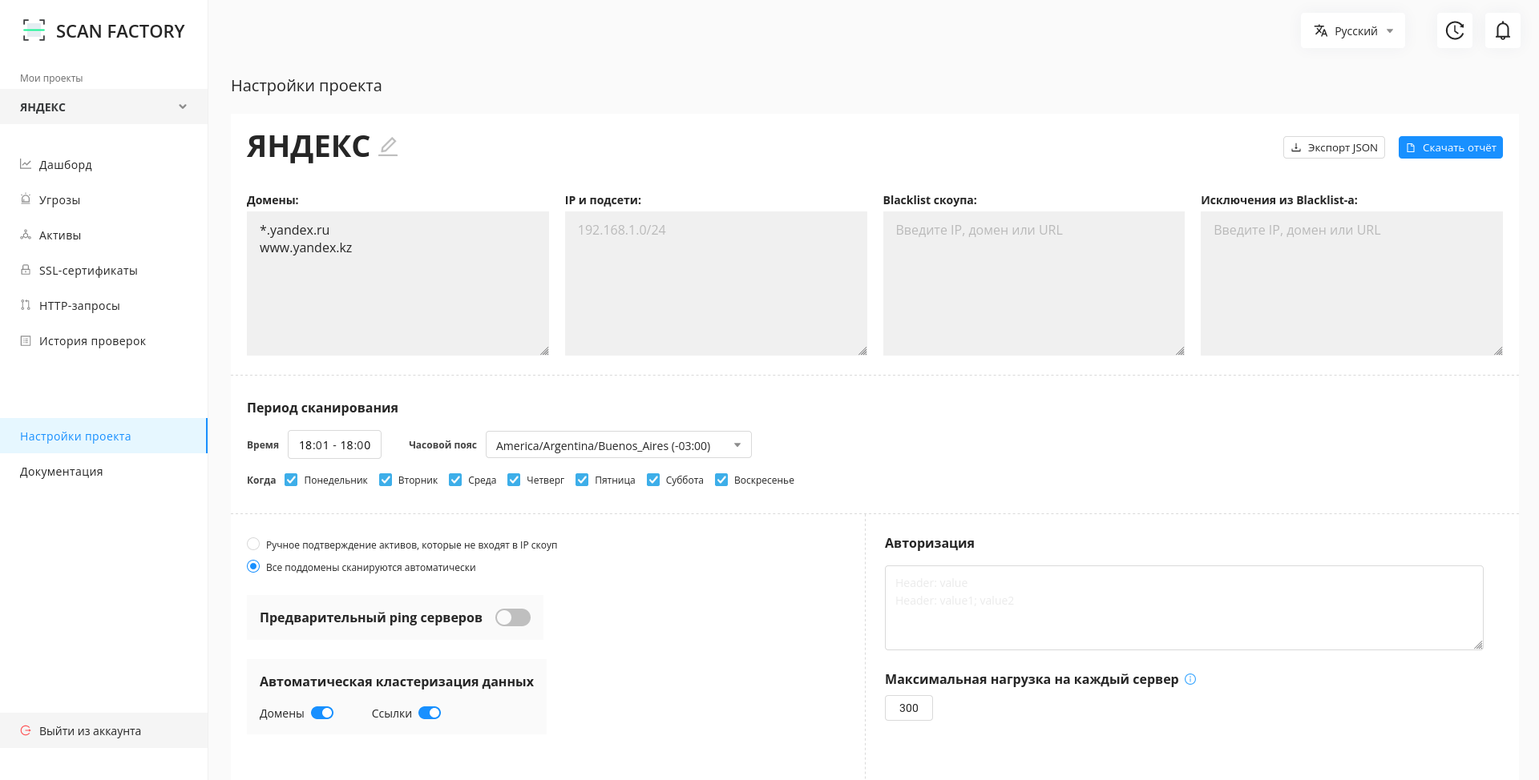
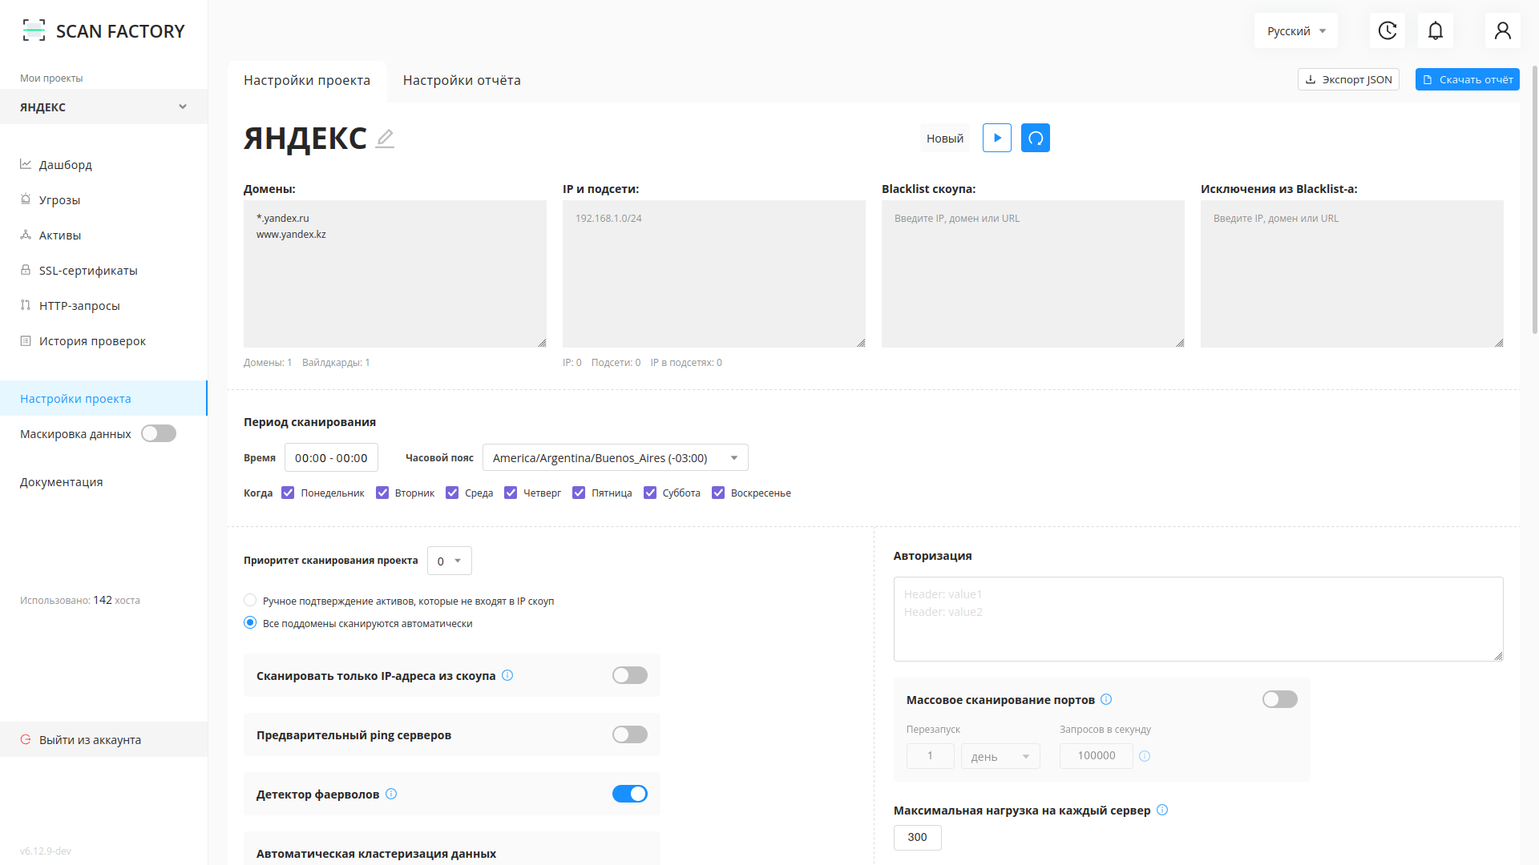
CORE-830: Исправлена страинца быстрого старта.

diff --git a/docs/quickstart.md b/docs/quickstart.md
@@ -14,15 +14,15 @@ order: 99
 
 ![Рис. 1.1](./static/1-1.png)
 
-Заполните появившуюся форму. Укажите имя проекта, режим сканирования целей (ПЕРИМЕТР, WEB, OSINT, MICROSCAN, LIGHT SCAN: они различаются набором сканеров, по умолчанию ПЕРИМЕТР - все сканеры включены), цели сканирования: хотя бы один домен, вайлдкард, IP или подсеть. Подробнее о этапах сканирования в разделе [Технический Обзор](./technical-overview.md).
+Заполните появившуюся форму. Укажите имя проекта, режим сканирования целей (`ПЕРИМЕТР`, `Внутренняя сеть`, `OSINT`, `METASCAN`, `ВЕБ`: они различаются набором сканеров, по умолчанию `ПЕРИМЕТР` - все сканеры включены), цели сканирования: хотя бы один домен, вайлдкард, IP или подсеть. Подробнее о этапах сканирования в разделе [Технический Обзор](./technical-overview.md).
 
 Режимы:  
 
-Периметр - по умолчанию, включает в себя все сканеры для общего сканирования активов  
-Внутренняя сеть - сканирование внутренней сети на On-premise инсталляции раз в неделю  
-OSINT - сканирование активов с разведкой по открытым источникам  
-Metascan - сканирование только с помощью opensource инструментов  
-Веб - сканирование веб приложений  
+`Периметр` - по умолчанию, включает в себя все сканеры для общего сканирования активов  
+`Внутренняя сеть` - сканирование внутренней сети на On-premise инсталляции раз в неделю  
+`OSINT` - сканирование активов с разведкой по открытым источникам  
+`Metascan` - сканирование только с помощью opensource инструментов  
+`Веб` - сканирование веб приложений  
 
 ![Рис. 1.2](./static/1-2.png)
 
@@ -30,7 +30,7 @@ Metascan - сканирование только с помощью opensource и
 
 ![Рис. 1.2.1](./static/1-2-1.png)
 
-Нажмите на кнопку `Создать проект` после внесения интересующих вас изменений. Новый проект будет на паузе, пока вы не запустите его из вкладки `Мои проекты`.
+Нажмите на кнопку `Создать проект` после внесения интересующих вас изменений. Новый проект будет на паузе, пока вы не запустите его в настройках или из вкладки `Мои проекты`.
 
 ## 2. Настройте проект
 
@@ -53,10 +53,13 @@ Metascan - сканирование только с помощью opensource и
   - `domain.com`
   - `*.sub.domain.com`
   - `https?://domain.com/foo/\w+`
-- **Исключения из blacklist-a:** Здесь можно указать исключения из черного списка. Могут быть указаны домены, вайлдкарды, регулярные выражения (для доменов), IPv4 адреса и подсети и регулярные выражения для HTTP ссылок.
+- **Исключения из blacklist-a:** Здесь можно указать исключения из черного списка. Могут быть указаны домены, вайлдкарды, регулярные выражения (для доменов), IPv4 адреса и подсети и регулярные выражения для HTTP ссылок.  
 - Переключатель **"Ручное подтверждение новых активов, которые не входят в скоуп"** означает, ни один домен не будет просканирован пока его IP-адреса не будут занесены вами в **IP и подсети**.  
+- **Сканировать только IP-адреса из скоупа:** Система сканирует только IP-адреса из скоупа. IP-адреса, в которые резолвятся домены, не сканируются  
 Используйте её, чтобы сканирование не шло по ресурсам, которые расположены на IP-адресах сторонних организаций.  
-- **Предварительный Ping серверов:** Scanfactory будет предварительно проверять доступность указанных адресов и доменов перед сканированием, если ресурс недоступен, сканирование по нему не будет выполняться.
+- **Предварительный Ping серверов:** Scanfactory будет предварительно проверять доступность указанных адресов и доменов перед сканированием, если ресурс недоступен, сканирование по нему не будет выполняться.  
+- **Детектор фаерволов:** Периодическая проверка открытых портов. Если на ранее открытый порт возвращается таймаут, то порт помечается, как заблокированный фаерволом. Рекомендуем отключать во время сканирования локальных сетей.  
+- **Автоматическая кластеризация данных (защита от флуда):** процесс группировки схожих или одинаковых ссылок и доменов для предотвращения засорения системы идентичной информацией и для упрощения просмотра активов и уязвимостей.  
 
 Развернутые инструкции по настройке можно найти в разделе [Технический обзор](./technical-overview.md).
 
@@ -64,7 +67,12 @@ Metascan - сканирование только с помощью opensource и
 
 ![Рис. 2.2](./static/2-2.png)
 
-По умолчанию будут запущены все шаблоны. У каждого шаблона есть `таймаут`, максимальное время за которое одна задача должна быть завершена или время, после которого сканирование будет завершено с ошибкой, `перезапуск`, время, спустя которое сканер, связанный с данным шаблоном, заново начнет сканировать уязвимости. Например, перезапуск infrascan - 1 день: после выполнения всех задач этим сканером, повторное сканирование он будет выполнять только через 1 день.
+По умолчанию будут запущены все шаблоны.  
+У каждого шаблона есть `таймаут` - максимальное время за которое одна задача должна быть завершена или время, после которого сканирование будет завершено с ошибкой.  
+`Перезапуск` - время, спустя которое сканер, связанный с данным шаблоном, заново начнет сканировать уязвимости. Например, перезапуск infrascan - 1 день: после выполнения всех задач этим сканером, повторное сканирование он будет выполнять только через 1 день.  
+`Приоритет` - чем выше приоритет, тем выше в очереди будут находиться задачи этого шаблона.  
+`Нагрузка` - "вес" задач шаблона, позволяет рассчитать количество запускаемых задач, сумма нагрузки которых меньше или равна выбранной нагрузке на каждый сервер.  
+`Повтор задач` - количество перезапусков в случае ошибки.
 
 Более подробную информацию о сканерах и их настройке можно найти в разделах [Список используемых сканеров](./scanners.md) и [Решение проблем](./problems.md).
 
@@ -86,7 +94,7 @@ Metascan - сканирование только с помощью opensource и
 
 ![Рис. 4.1](./static/4-1.png)
 
-На данной странице отображена сводная статиска по выбранному проекту или системе.
+На данной странице отображена статистика по одному или всем проектам за выбранный промежуток времени.
 
 ## 5. Угрозы
 
@@ -94,10 +102,11 @@ Metascan - сканирование только с помощью opensource и
 Функционал раздела "Угрозы" позволяет:
 
 - Просматривать все обнаруженные уязвимости;  
-- Управлять статусом уязвимостей;  
+- Закреплять важные уязвимости и скрывать не интересующие;  
+- Управлять статусом уязвимостей, назначать им уровень опасности;  
 - Выполнять поиск и фильтрацию уязвимостей по заданным параметрам;  
-- Просмотреть подробную информацию об уязвимости в карточке уязвимости;  
-- Выгрузить события в формате JSON.
+- Просматривать подробную информацию об уязвимости в ее карточке;  
+- Скачать отчет по уязвимости в формате PDF или выгрузить уязвимости в формате CSV.
 
 Нажав на название уязвимости возможно перейти на карточку уязвимости, и получить подробную информацию о ней.  
 В карточке уязвимости указаны:
@@ -110,13 +119,22 @@ Metascan - сканирование только с помощью opensource и
 - Описание
 - Шаги по воспроизведению
 
+Выбранную уязвимость можно перепроверить, нажав на кнопку `Перепроверка угрозы` на карточке.
+
 ![Рис. 5.2](./static/5-2.png)
 
 ## 6. Активы
 
-Активы - страница, которая отображает текущее состояние инфраструктуры Заказчика.
+По окончании сканирования на странице будет отображано текущее состояние инфраструктуры, это найденные IP, порты и домены.
 
-После окончания сканирования на странице Активов будут отображены найденные IP, порты и домены. Важные записи на странице можно закреплять. Отчет об активе можно скачать, нажав на соответствующую кнопку в колонке `Отчет`. Для доменов доступны скриншоты страницы для стандартных портов, отчеты сканера dirsearch доступны по нажатию на интересующий найденный порт, и отчеты по активу, как и для IP.
+Сверху страницы находятся переключатели `Сутки`, `Три дня` и т.д. Они позволяют просматривать активы, порты которых последний раз были найдены в течение выбранного промежутка времени. По кнопке `Экспорт CSV` можно выгрузить активы с учетом выбранного периода выше в формате CSV.
+Переключатель `Живые хосты` позволяет просматривать активные или неактивные хосты, когда переключатель `Игнорируемые хосты` показывает активы, находящиеся в черном списке.
+
+!!!
+Хост считается живым, если у него есть хотя бы один открытый порт
+!!!
+
+Важные записи на странице можно закреплять и писать к ним комментарии. Колонка `Угрозы` отображает количество критических, высоких и средних уязвимостей, найденных на активе. Отчет об этих уязвимостях можно скачать, нажав на соответствующую кнопку в колонке `Отчет`. Для доменов доступны скриншоты страницы для стандартных портов, PDF отчеты по всем или только критическим уязвимостям.  
 
 ![Рис. 6.1](./static/6-1.png)
 
@@ -134,7 +152,13 @@ Metascan - сканирование только с помощью opensource и
 
 ## 9. История проверок
 
-На данной странице вы найдете все проверки, производимые сканерами. Таблица поддерживает фильтрацию по шаблону, по статусам сканов, времени создания и обновления задачи, а также поиск по хостам.
+Здесь находятся все проверки, производимые сканерами. На этой странице можно выгрузить произведенные проверки в файл формата CSV, просмотреть архивные и скрытые задачи.
+
+!!!
+Архивация задач происходит спустя 7 дней после сканирования.
+!!!
+
+Таблица поддерживает фильтрацию по шаблону, по статусам сканов; сортировку по времени создания и обновления задачи, а также поиск по хостам и ID задачи. В столбце `Вывод` можно скачать отчет, созданный сканером или результат его работы. В конце строки каждой задачи можно нажать кнопку перезапуска, это действие создаст идентичную задачу с максимальным приоритетом. Строки задач можно раскрывать и просмативать ход сканирования, это статусы задач и их изменение с привязкой ко времени.
 
 ![Рис. 9.1](./static/9-1.png)
 
@@ -143,6 +167,6 @@ Metascan - сканирование только с помощью opensource и
 Начните диалог с телеграм-ботом: [`@scanfactory_reporter_bot`](https://t.me/scanfactory_reporter_bot)
 
 Подключите бота к вашему Личному Кабинету с помощью команды:  
-`/connect https://yx-client.scanfactory.io/api/ token <TOKEN>`
+`/connect https://your_app.sf-cloud.ru/api/ token <TOKEN>`
 
 Рабочий токен вы можете получить, связавшись с технической поддержкой.  
